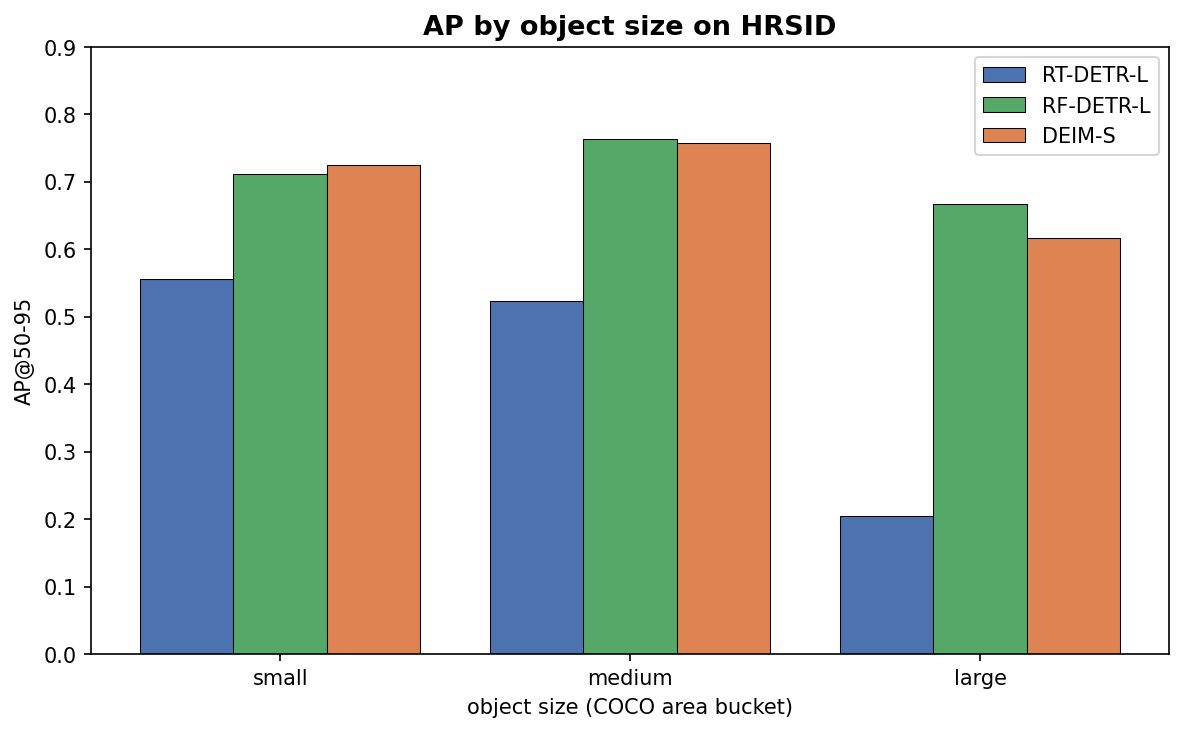
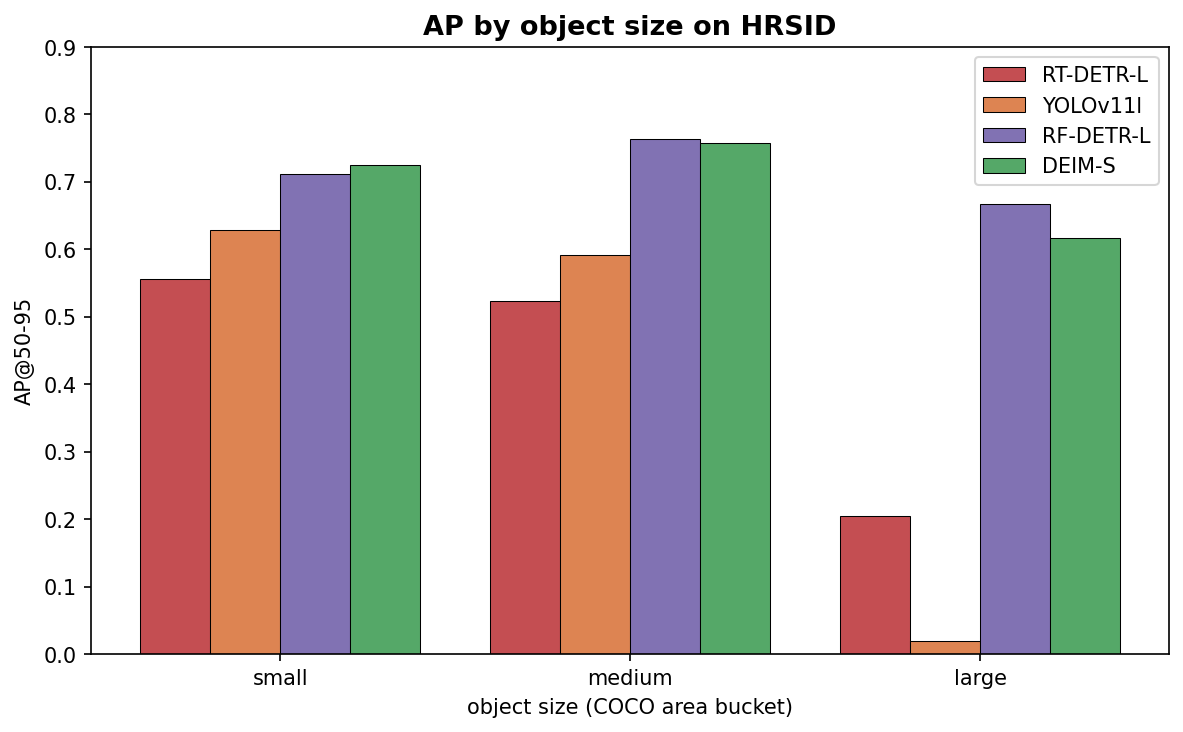
Add YOLOv11l to comparison + AP-by-size figures; cross-model AP-by-size

diff --git a/gcp_training/gen_paper_figures.py b/gcp_training/gen_paper_figures.py
@@ -4,6 +4,7 @@ import json
 from pathlib import Path
 
 import matplotlib.pyplot as plt
+import numpy as np
 import pandas as pd
 
 OUT = Path("paper_figures"); OUT.mkdir(exist_ok=True)
@@ -55,10 +56,10 @@ plt.savefig(OUT / "fig_convergence_overlay.png", dpi=150, bbox_inches="tight")
 print("saved fig_convergence_overlay.png")
 
 # ---------- 2. Grand comparison (best config per model + literature) ----------
-names = ["Faster R-CNN*", "Cascade R-CNN*", "YOLOv8*", "RT-DETR-L", "RF-DETR-L", "DEIM-S"]
-m50 = [0.867, 0.877, 0.887, 0.833, 0.936, 0.936]
-m5095 = [0.635, 0.666, 0.628, 0.544, 0.695, 0.718]
-colors = [GRAY, GRAY, GRAY, RED, PURPLE, GREEN]
+names = ["Faster R-CNN*", "Cascade R-CNN*", "YOLOv8*", "RT-DETR-L", "YOLOv11l", "RF-DETR-L", "DEIM-S"]
+m50 = [0.867, 0.877, 0.887, 0.814, 0.863, 0.934, 0.936]
+m5095 = [0.635, 0.666, 0.628, 0.539, 0.614, 0.707, 0.718]
+colors = [GRAY, GRAY, GRAY, RED, ORANGE, PURPLE, GREEN]
 fig, axes = plt.subplots(1, 2, figsize=(14, 5))
 for ax, vals, title, lo in ((axes[0], m50, "mAP@50 on HRSID", 0.5),
                             (axes[1], m5095, "mAP@50-95 on HRSID", 0.3)):
@@ -73,15 +74,23 @@ plt.tight_layout()
 plt.savefig(OUT / "fig_comparison_all.png", dpi=150, bbox_inches="tight")
 print("saved fig_comparison_all.png")
 
-# ---------- 3. DEIM AP by object size ----------
+# ---------- 3. AP by object size (all models) ----------
 sizes = ["small", "medium", "large"]
-ap640 = [0.7249, 0.7572, 0.6156]
-plt.figure(figsize=(6.5, 5))
-bars = plt.bar(sizes, ap640, color=[GREEN, GREEN, GREEN], edgecolor="black")
-plt.ylabel("AP@50-95"); plt.ylim(0, 0.9)
-plt.title("DEIM-S @640: AP by object size (HRSID)", fontsize=13, fontweight="bold")
-for i, v in enumerate(ap640):
-    plt.text(i, v + 0.01, f"{v:.3f}", ha="center", fontweight="bold")
-plt.tight_layout()
-plt.savefig(OUT / "fig_deim_ap_by_size.png", dpi=150, bbox_inches="tight")
-print("saved fig_deim_ap_by_size.png")
+ap_models = [
+    ("RT-DETR-L", [0.556, 0.523, 0.205], RED),
+    ("YOLOv11l", [0.629, 0.591, 0.020], ORANGE),
+    ("RF-DETR-L", [0.711, 0.763, 0.667], PURPLE),
+    ("DEIM-S", [0.725, 0.757, 0.616], GREEN),
+]
+xpos = np.arange(len(sizes))
+bw = 0.8 / len(ap_models)
+plt.figure(figsize=(8, 5))
+for i, (name, vals, c) in enumerate(ap_models):
+    plt.bar(xpos + (i - (len(ap_models) - 1) / 2) * bw, vals, bw,
+            label=name, color=c, edgecolor="black", lw=0.5)
+plt.xticks(xpos, sizes); plt.ylabel("AP@50-95"); plt.ylim(0, 0.9)
+plt.xlabel("object size (COCO area bucket)")
+plt.title("AP by object size on HRSID", fontsize=13, fontweight="bold")
+plt.legend(); plt.tight_layout()
+plt.savefig(OUT / "fig_ap_by_size.png", dpi=150, bbox_inches="tight")
+print("saved fig_ap_by_size.png")
